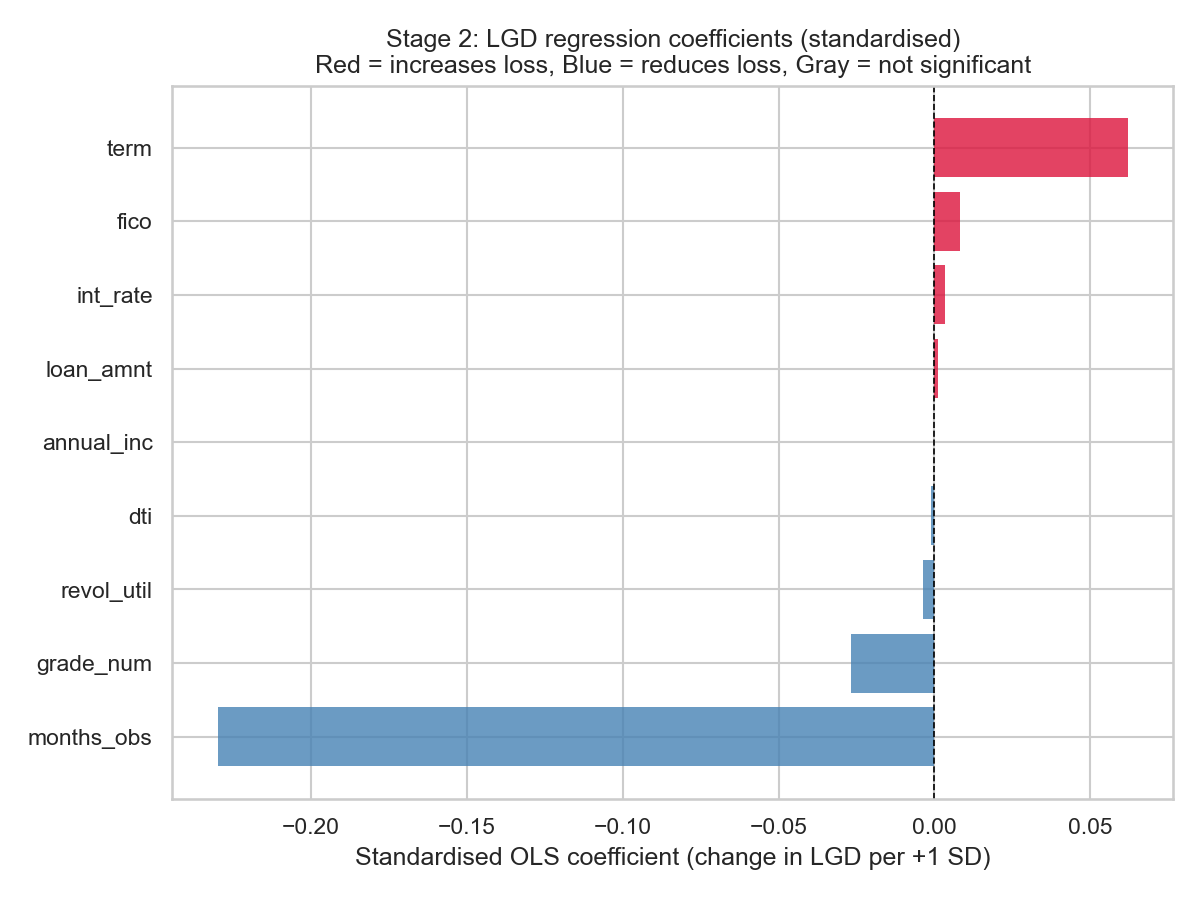
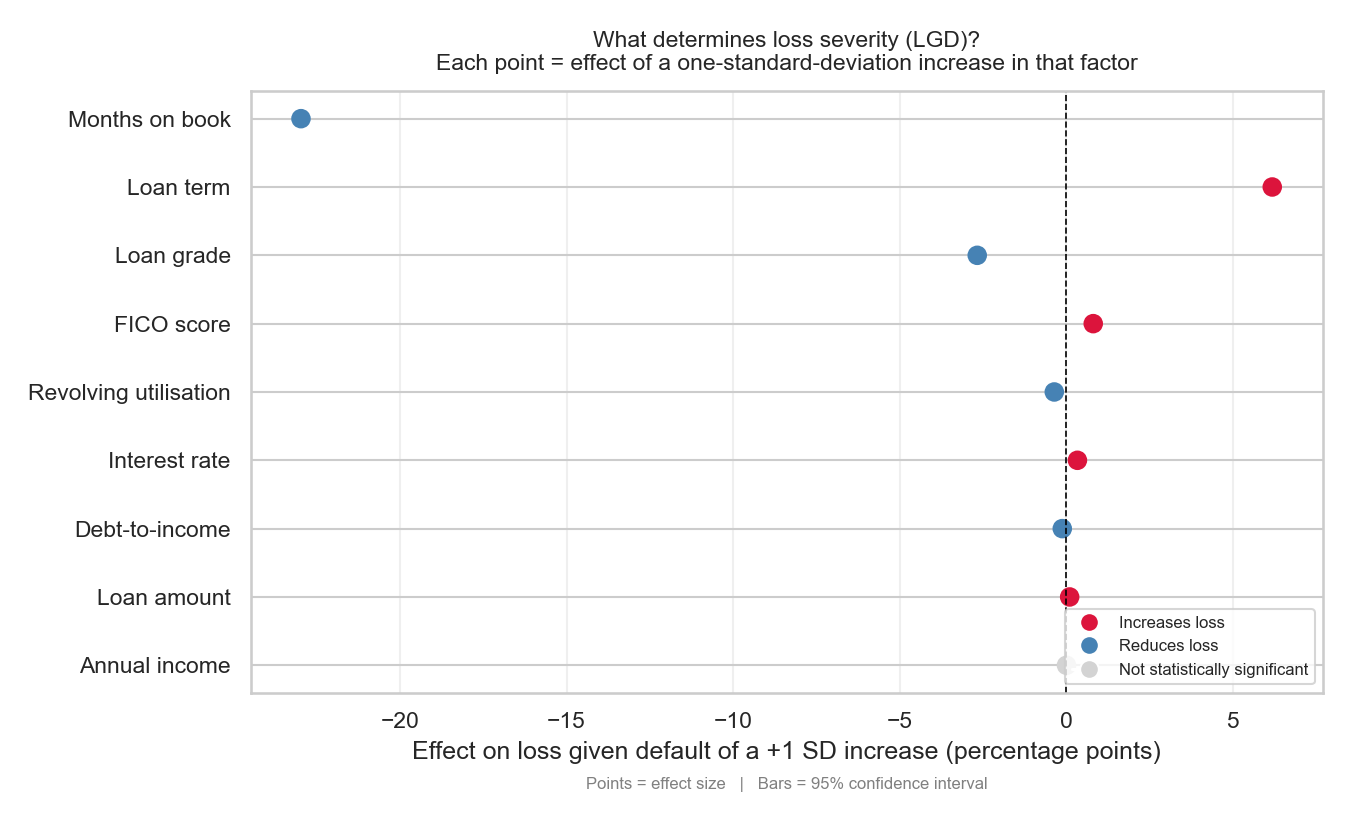
LGD chart: match Stage 1 forest-plot style + plain-language labels; add README key
- Rebuild lgd_coefficients.png as a dots + 95% CI forest plot (like the Stage 1
  marginal-effects chart) instead of bars, with human-readable variable names
  and the same red/blue/gray significance legend
- Add a collapsible plain-language variable key to the README so the labels in
  both charts are defined in one place

diff --git a/README.md b/README.md
@@ -60,6 +60,26 @@ One caveat shapes everything downstream. Grouping loans by the quarter they were
 
 ![Delinquency by issue cohort and grade](output/figures/vintage_curves_by_grade.png)
 
+<details>
+<summary><b>Variable reference</b> — plain-language key for the model inputs (used in the charts below)</summary>
+
+| Variable | What it means |
+|---|---|
+| Loan grade | Lending Club's own A–G risk grade |
+| Interest rate | Annual interest rate set for the loan |
+| FICO score | Borrower's credit score at application |
+| Annual income | Borrower's stated yearly income |
+| Loan amount | Principal borrowed |
+| Loan term | Repayment length (36 or 60 months) |
+| Debt-to-income | Monthly debt payments ÷ monthly income |
+| Revolving utilisation | Share of the revolving credit limit in use |
+| Open accounts | Number of open credit lines |
+| Public derogatory records | Bankruptcies, liens, or judgments on record |
+| Delinquencies (2yr) | Past-due events in the last two years |
+| Months on book | How long the loan has been active — *post-origination*, so not known at application time |
+
+</details>
+
 ### 2. Stage 1 — How likely is default?
 
 **Setup.** A logistic regression predicts whether a loan will become delinquent, using **only information available when the loan is issued** (grade, interest rate, FICO, income, loan amount, DTI, term, and a few credit-history fields). It is trained on loans issued **2007–2017 and tested on the held-out 2018 vintage**, so the score is judged on loans it has never seen. On that test it reaches **AUC = 0.68** — solid for an application-time model.
